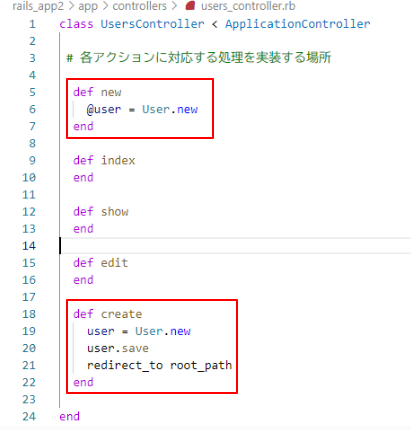
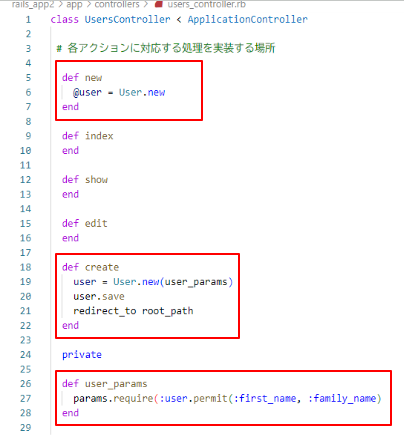
Recommit

Changed region(s): [[0.0297, 0.0, 0.8911, 0.9977], [0.1188, 0.4837, 0.9802, 0.9977]]

diff --git a/first_part/04-6_RoR_Rails基礎1.md b/first_part/04-6_RoR_Rails基礎1.md
@@ -471,25 +471,35 @@ Webシステム開発では、**アプリ内で画像を使用するとき**、*
 
 1. **ターミナルで cd <リポジトリフォルダ名> へ移動しよう**  
  
-   「`cd rails_basis`」コマンドをターミナルで実行してください。
+   ```
+   cd rails_basis 
+   ```
+   コマンドをターミナルで実行してください。
 
 1. **ターミナルでrails new <アプリケーション名> コマンドでアプリケーション枠組みの作成**    
-   
-   「`rails new rails_app2`」コマンドをターミナルで実行してください。
+   ```
+   rails new rails_app2
+   ```
+   コマンドをターミナルで実行してください。
 
 1. **ターミナルで cd <アプリケーション名> へ移動しよう**  
- 
-   「`cd rails_app2`」コマンドをターミナルで実行してください。
+   ```
+   cd rails_app2
+   ```
+   コマンドをターミナルで実行してください。
 
 1. **rails db:createコマンドを実行**  
 
-   「`rails db:create`」コマンドをターミナルで実行してください。
-    
+   ```
+   rails db:create
+   ``` 
     データベースを作成するコマンドです。 
 
 1. **コントローラーの作成しよう**
-   
-   「 `rails g controller users new index show edit ` 」このコマンドを実行してください。
+   ```
+   rails g controller users new index show edit 
+   ```
+   コマンドを実行してください。
     コントローラーを作成時にviewファイルの作成も一緒にすることができます。
 
 1. **ルーティングの設定を変更しよう**
@@ -523,13 +533,15 @@ Webシステム開発では、**アプリ内で画像を使用するとき**、*
      <img src="images/Rails基礎/マイグレーションファイルカラムの追加.png" width= "600px">
 
 1. **データベースへの反映**  
-   先ほど追加した変更を「 `rails db:migrate` 」コマンドでデータベースに反映します。  
+   先ほど追加した変更をコマンドでデータベースに反映します。 
+   ```
+   rails db:migrate
+   ```  
    「 `db/migrate` 」の中のファイルを変更した場合はアプリを起動するとエラーが発生するので必ずこのコマンドを実行しましょう。  
    ↓このようなエラーが発生します。  
     <img src="images/Rails基礎/マイグレーションエラー.png" width= "600px">
 
-ここまでで必要な設定などを終わらせることができました。
-次は中身の作成をしていきます。
+   ここまでで必要な設定などを終わらせることができました。次は中身の作成をしていきます。
 
 #### **ユーザー登録ページを作ろう**
 
@@ -547,7 +559,7 @@ Webシステム開発では、**アプリ内で画像を使用するとき**、*
     これは/users/new にアクセスすると、UsersController の new アクションが呼び出されるルートを設定しています。  
     もし、アプリケーション内で複数のコントローラが同じような処理を持っている場合に、それぞれのコントローラとアクションを明確に識別できるようにこの書き方をします。
     
-1. **viewページ作成**   
+1. **登録ページ作成**   
    「 `app/views/users/new.html.erb` 」を開いてください。
     htmlファイルでviewページが作成されていますね。
     これは、controllerの作成時に一緒に作成されてものです。
@@ -574,6 +586,7 @@ Webシステム開発では、**アプリ内で画像を使用するとき**、*
       <%= f.submit '登録' %>
     <% end %>
 
+    <%= link_to "一覧ページ", root_path %>
     ```
     上記のように書き換えてください。  
     これで登録ページの作成は完了しました。
@@ -584,42 +597,127 @@ Webシステム開発では、**アプリ内で画像を使用するとき**、*
   
 #### 一覧ページを作ろう
 
-1. **controllerへ記述しよう**
+1. **controllerに記述しよう**
    
-
-
-
-1. **rails db:migrate**  
-    
-    「`rails db:migrate`」このコマンドをターミナルで実行してください。
-
-    データベースを適用するために使用します。
-
-1. **rails sコマンドでアプリを起動しましょう**  
-
-   「`rails s`」このコマンドをターミナルで実行してください。
-
-1. **ブラウザで「 http://localhost:3000 」にアクセス**  
-   ブラウザ（chromeなど）を開いてURL「 http://localhost:3000 」を検索欄に貼り付けてください
-
-   <img src="images/Rails基礎/httplocalhost3000 ページ.png" width= "300px">
-
-   この画面が表示されたら成功です。  
+   <img src="images/Rails基礎/indexアクションの追加.png" width= "400px"> 
    
-1. **URLに「/Users」を入れて一覧ページを開こう**  
-   URLを「 http://127.0.0.1:3000/Users 」と変更してください。
-
-   <img src="images/Rails基礎/Usersページ.png" width= "300px">
+1. **一覧ページ作成**
    
-   簡単なページが出来上がっています。  
-   他にも「**/Users/new**」でユーザーの登録ページに移動できます。
+   「 `app/views/users/index.html.erb` 」を開いてください。
 
-1. **ターミナル上で Ctrl キー + C キーを押してアプリケーションを停止しよう**   
+   ```
+   <h1>一覧ページ</h1>
+   <% @users.each do |user| %>
 
-   無事にアプリケーションを終了できましたか？   
-   アプリケーションを閉じるためのショートカットキーでよく使用しますのでぜひ覚えてください。
+ 
+   <p>名前</p>
+   <span><%= user.first_name %></span>
+   
+   <p>苗字</p>
+   <span><%= user.family_name %></span>
 
-これで、便利なコマンドを使って、簡単なアプリケーションが作成できました。
+   <br>
+   
+   ===========
 
-思っていたより簡単すぎて、少し拍子抜けしたかもしれませんね。  
-このシンプルさが**Rails**の**強力な特徴であり**、まだほんの一部に過ぎません。
+   <% end %>
+
+   <%= link_to "登録ページ", users_new_path %>
+   ```   
+   これで一覧ページの作成は完了しました。
+   アプリで実際に名前を登録して一覧ページを確認してみましょう。
+
+   登録した名前が追加されていましたか？  
+   <img src="images/Rails基礎/一覧ページ.png" width= "300px">   
+   このようなページが作成されていれば完了です。
+  
+#### 詳細ページを作ろう 
+
+1. **ルーティングとコントローラーに追加、削除しましょう**   
+
+   showのルーティングを変更しましょう。   
+   <img src="images/Rails基礎/show変更.png" width= "500px">
+
+   コントローラーに記述を追加しましょう。  
+   <img src="images/Rails基礎/showコントローラー追加.png" width= "300px">   
+   
+1. **詳細ページを作成しよう**
+   「 `app/views/users/show.html.erb` 」を開いてください。
+   ```
+   <h1>ユーザー詳細</h1>
+
+   <div>
+   <%=  @user_show.first_name %>
+
+   <%= @user_show.family_name %>
+   </div> 
+
+   <%= link_to "一覧ページ", root_path %>
+   <%= link_to "登録ページ", users_new_path %>
+
+   ```
+    詳細ページの作成は完了しました。
+
+1. **詳細ページに遷移できるリンクを作ろう**    
+    <img src="images/Rails基礎/詳細リンク.png" width= "300px">   
+   一覧ページに作成します。
+   画像のようにリンクを作成してください。
+
+  #### 編集ページの作成
+   1. **コントローラーの編集**  
+     <img src="images/Rails基礎/editのコントローラー記述変更.png" width= "300px">  
+     コントローラーのeditアクションの編集とupdateアクションの追加をしてください。
+   
+   1. **ルーティングの追加、変更**  
+       <img src="images/Rails基礎/editルーティングの変更とupdateルーティングの追加.png" width= "300px">  
+       editとupdate記述を追加、変更してください。
+
+   1. **編集ページをつくろう**
+
+       ```
+       <h1>ユーザー編集ページ</h1>
+
+       <%= form_with model: @user_edit do |f| %>
+
+         <p>名前</p>
+         <%= f.text_field :first_name %>
+         
+         <p>苗字</p>
+         <%= f.text_field :family_name %>  
+         
+         
+         <br>
+
+         <%= f.submit '更新' %>
+         
+       <% end %>
+       ```
+       これで編集ページの作成が完了しました。  
+   
+   1. **編集ページに遷移できるリンクを作ろう**  
+       <img src="images/Rails基礎/編集画面へのリンク作成.png" width= "400px">   
+       詳細ページに作成します。  
+       画像のようにリンクを作成してください。
+  
+  #### 削除機能の作成
+
+   1. ルーティングとコントローラーの記述をしましょう。  
+      <img src="images/Rails基礎/destroyルーティング追加.png" width= "300px">  
+
+      ルーティングの記述をしましょう。
+
+      <img src="images/Rails基礎/destroyコントローラー追加.png" width= "400px">   
+
+      コントローラーにdestroyアクションを追加しましょう。
+
+   1. **削除ボタンを配置しましょう**   
+      <img src="images/Rails基礎/削除リンク追加.png" width= "600px">  
+      配置ができたら試してみましょう。
+
+MVCの中身の説明。
+ルーティングについて。
+db・マイグレーションファイルについて。
+パラメータ
+フォームヘルパー
+strong parameters（ストロングパラメーター）
+`root to
